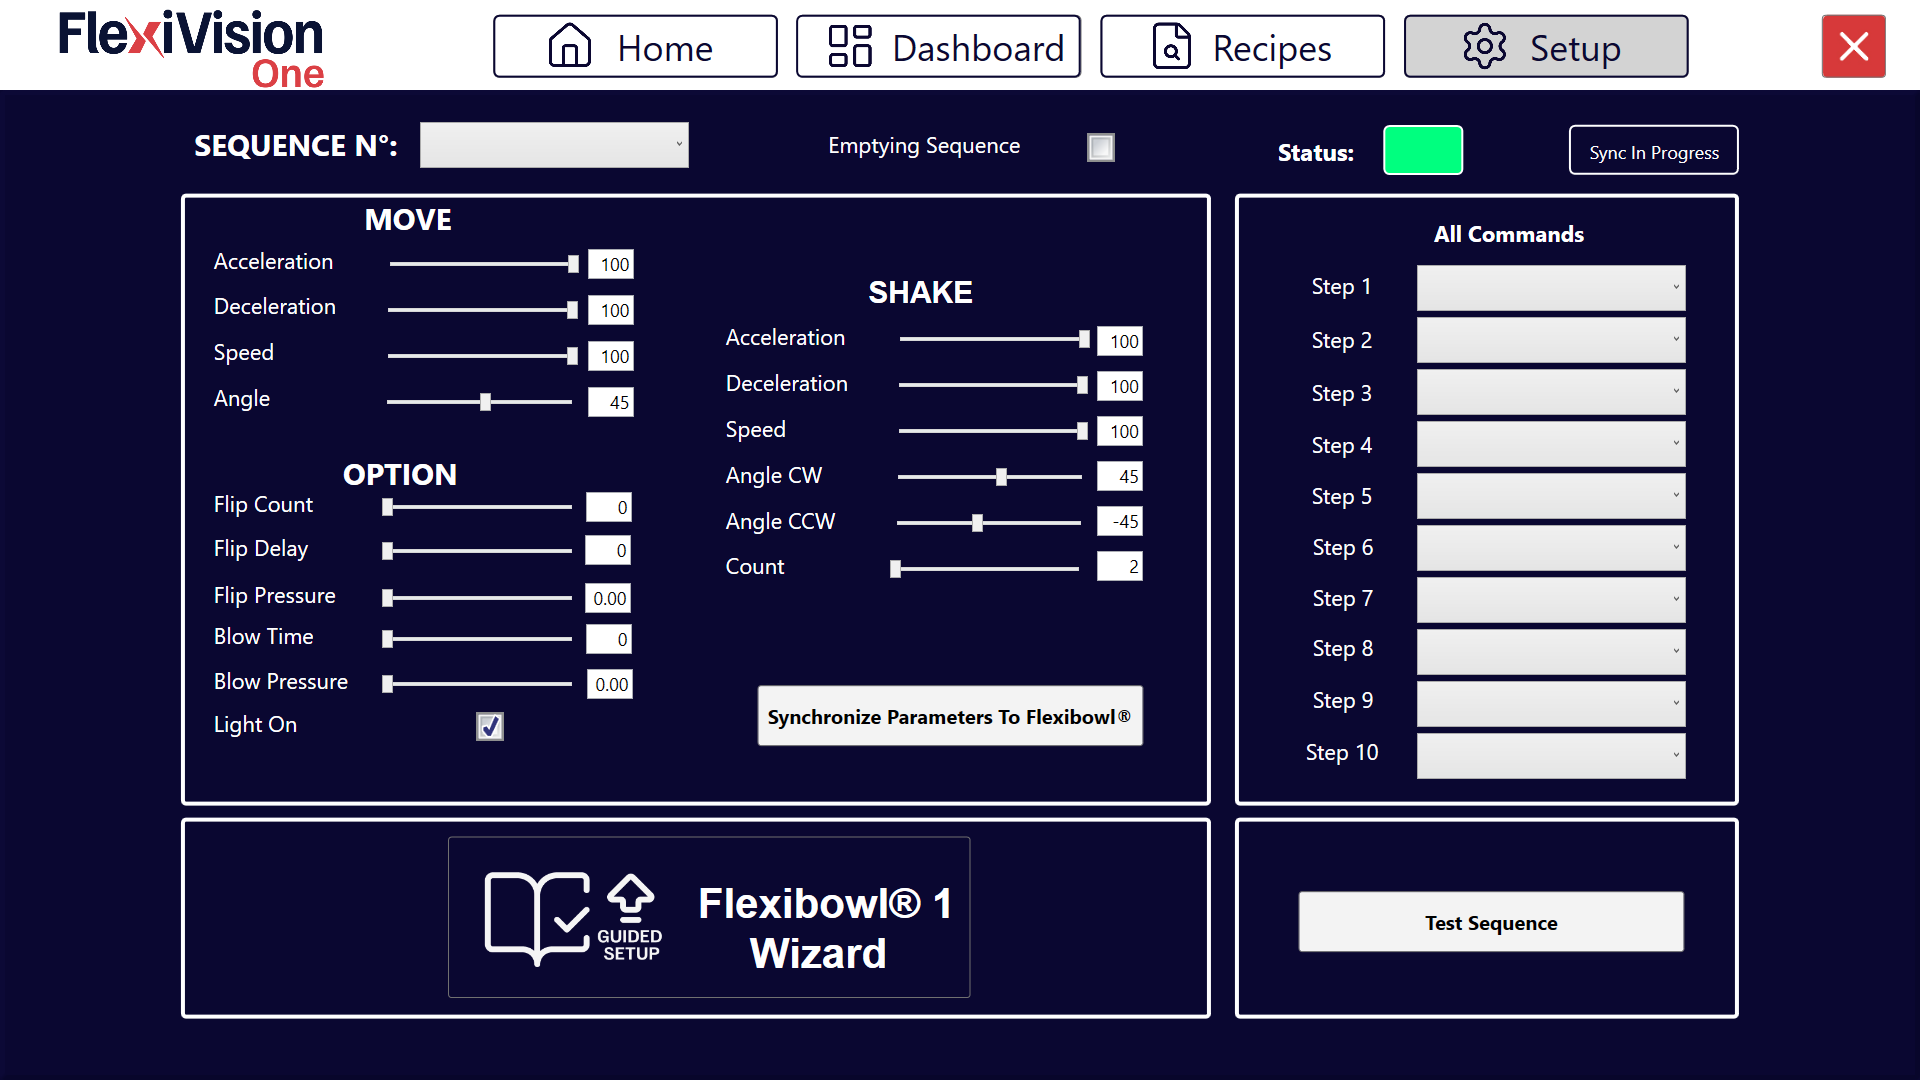
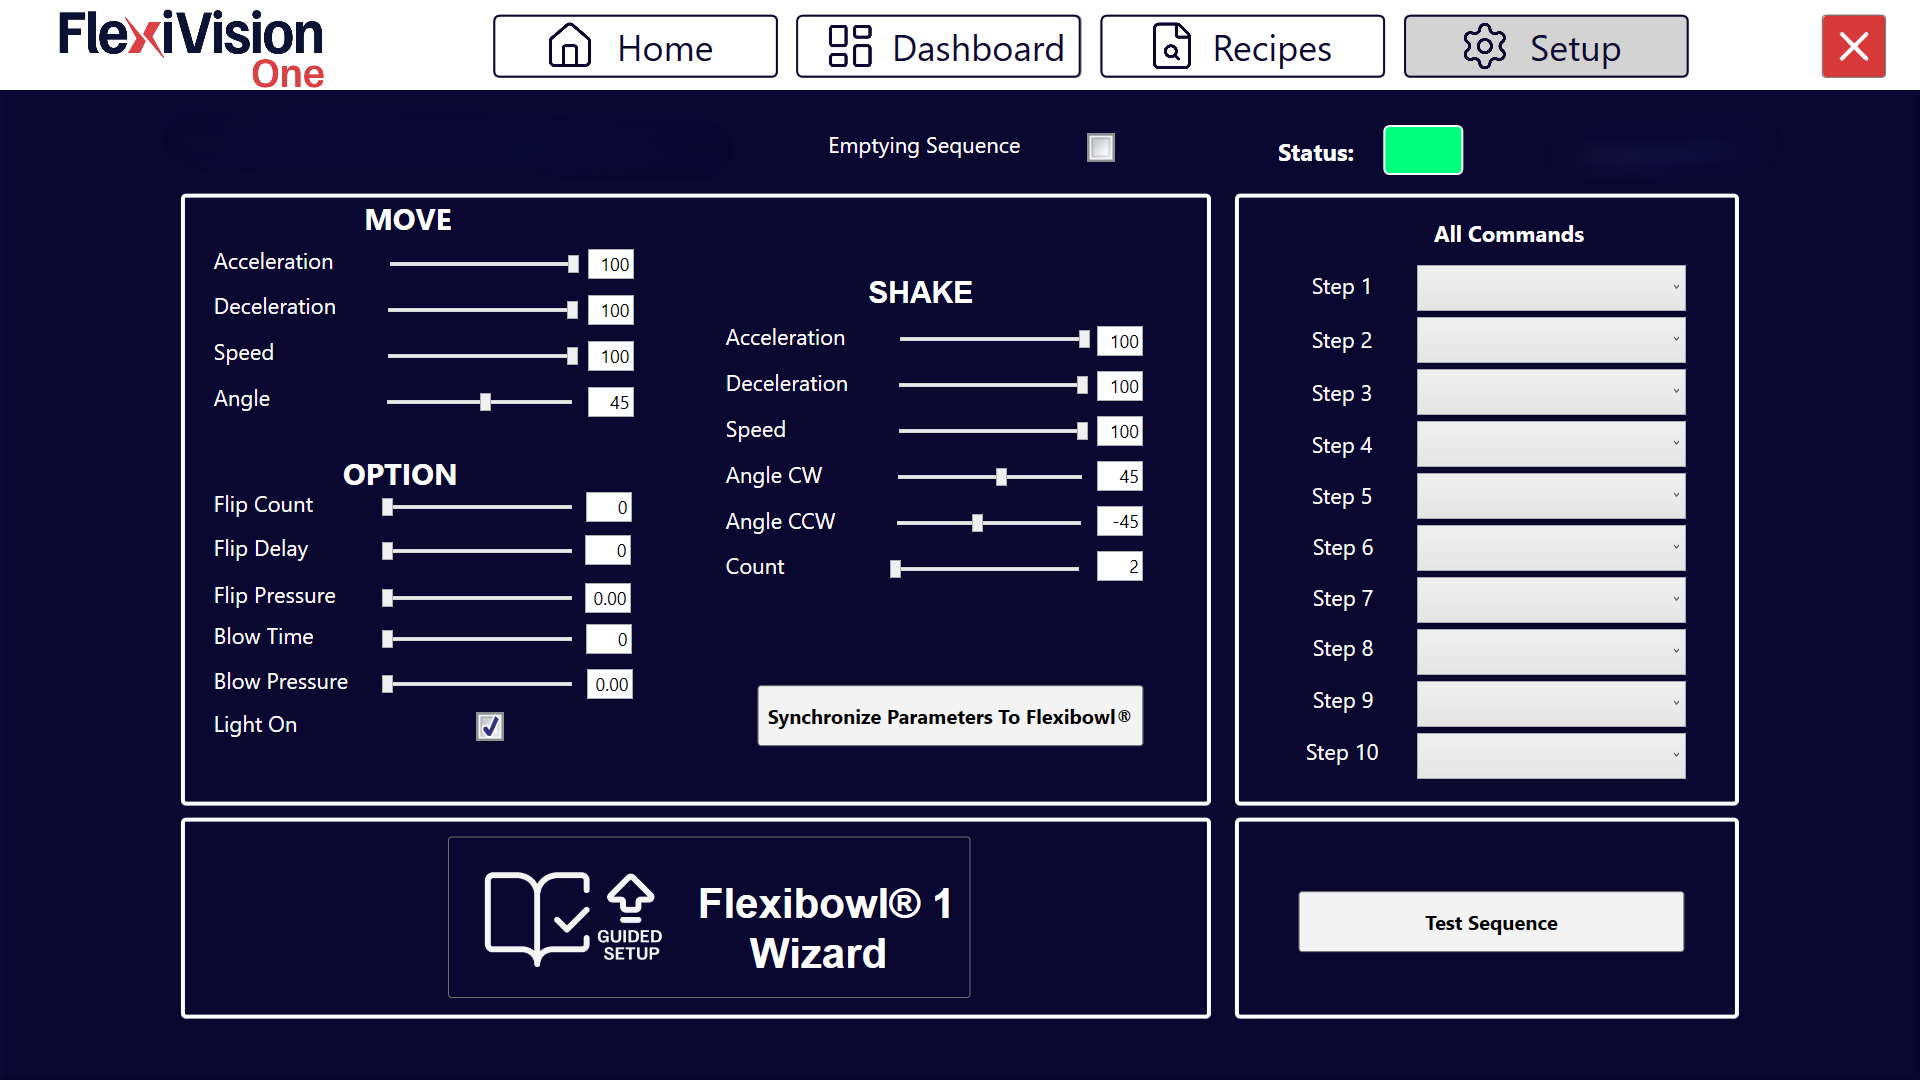
FB setup image

Changed region(s): [[0.0938, 0.0917, 0.375, 0.1528], [0.8125, 0.1222, 0.9062, 0.1528]]

diff --git a/build/V. 1.00/DE/FlexiVisionEasy_manual/QUICKSTART/SETUP/13a_FB_Setup.html b/build/V. 1.00/DE/FlexiVisionEasy_manual/QUICKSTART/SETUP/13a_FB_Setup.html
@@ -593,7 +593,7 @@
 </tr>
 <tr class="row-even"><td><p><strong>10</strong></p></td>
 <td><p>Es öffnet sich ein Fenster mit den konfigurierbaren Parametern des FlexiBowl®.
-<img alt="Pagina Parametri" src="../../../../../_shared/media/images/config_FB.png" /></p></td>
+<img alt="Pagina Parametri" src="../../../../../_shared/media/images/config_FB.PNG" /></p></td>
 </tr>
 </tbody>
 </table>
@@ -655,7 +655,7 @@
 <details class="sd-sphinx-override sd-dropdown sd-card sd-mb-3">
 <summary class="sd-summary-title sd-card-header">
 <span class="sd-summary-text">Seite Konfiguration FlexiBowl®</span><span class="sd-summary-state-marker sd-summary-chevron-right"><svg version="1.1" width="1.5em" height="1.5em" class="sd-octicon sd-octicon-chevron-right" viewBox="0 0 24 24" aria-hidden="true"><path d="M8.72 18.78a.75.75 0 0 1 0-1.06L14.44 12 8.72 6.28a.751.751 0 0 1 .018-1.042.751.751 0 0 1 1.042-.018l6.25 6.25a.75.75 0 0 1 0 1.06l-6.25 6.25a.75.75 0 0 1-1.06 0Z"></path></svg></span></summary><div class="sd-summary-content sd-card-body docutils">
-<p class="sd-card-text"><img alt="Pagina Parametri" src="../../../../../_shared/media/images/config_FB.png" /></p>
+<p class="sd-card-text"><img alt="Pagina Parametri" src="../../../../../_shared/media/images/config_FB.PNG" /></p>
 </div>
 </details></td>
 </tr>

diff --git a/build/V. 1.01/DE/FlexiVisionEasy_manual/QUICKSTART/SETUP/13a_FB_Setup.html b/build/V. 1.01/DE/FlexiVisionEasy_manual/QUICKSTART/SETUP/13a_FB_Setup.html
@@ -594,7 +594,7 @@
 </tr>
 <tr class="row-even"><td><p><strong>10</strong></p></td>
 <td><p>Es öffnet sich ein Fenster mit den konfigurierbaren Parametern des FlexiBowl®.
-<img alt="Pagina Parametri" src="../../../../../_shared/media/images/config_FB.png" /></p></td>
+<img alt="Pagina Parametri" src="../../../../../_shared/media/images/config_FB.PNG" /></p></td>
 </tr>
 </tbody>
 </table>
@@ -660,7 +660,7 @@
 <details class="sd-sphinx-override sd-dropdown sd-card sd-mb-3">
 <summary class="sd-summary-title sd-card-header">
 <span class="sd-summary-text">Seite Konfiguration FlexiBowl®</span><span class="sd-summary-state-marker sd-summary-chevron-right"><svg version="1.1" width="1.5em" height="1.5em" class="sd-octicon sd-octicon-chevron-right" viewBox="0 0 24 24" aria-hidden="true"><path d="M8.72 18.78a.75.75 0 0 1 0-1.06L14.44 12 8.72 6.28a.751.751 0 0 1 .018-1.042.751.751 0 0 1 1.042-.018l6.25 6.25a.75.75 0 0 1 0 1.06l-6.25 6.25a.75.75 0 0 1-1.06 0Z"></path></svg></span></summary><div class="sd-summary-content sd-card-body docutils">
-<p class="sd-card-text"><img alt="Pagina Parametri" src="../../../../../_shared/media/images/config_FB.png" /></p>
+<p class="sd-card-text"><img alt="Pagina Parametri" src="../../../../../_shared/media/images/config_FB.PNG" /></p>
 </div>
 </details></td>
 </tr>

diff --git a/build/V. 1.00/ES/FlexiVisionEasy_manual/QUICKSTART/SETUP/13a_FB_Setup.html b/build/V. 1.00/ES/FlexiVisionEasy_manual/QUICKSTART/SETUP/13a_FB_Setup.html
@@ -596,7 +596,7 @@
 </tr>
 <tr class="row-even"><td><p><strong>10</strong></p></td>
 <td><p>Se abre una ventana con los parámetros configurables del FlexiBowl®
-<img alt="Pagina Parametri" src="../../../../../_shared/media/images/config_FB.png" /></p></td>
+<img alt="Pagina Parametri" src="../../../../../_shared/media/images/config_FB.PNG" /></p></td>
 </tr>
 </tbody>
 </table>
@@ -658,7 +658,7 @@
 <details class="sd-sphinx-override sd-dropdown sd-card sd-mb-3">
 <summary class="sd-summary-title sd-card-header">
 <span class="sd-summary-text">Página de configuración de FlexiBowl®</span><span class="sd-summary-state-marker sd-summary-chevron-right"><svg version="1.1" width="1.5em" height="1.5em" class="sd-octicon sd-octicon-chevron-right" viewBox="0 0 24 24" aria-hidden="true"><path d="M8.72 18.78a.75.75 0 0 1 0-1.06L14.44 12 8.72 6.28a.751.751 0 0 1 .018-1.042.751.751 0 0 1 1.042-.018l6.25 6.25a.75.75 0 0 1 0 1.06l-6.25 6.25a.75.75 0 0 1-1.06 0Z"></path></svg></span></summary><div class="sd-summary-content sd-card-body docutils">
-<p class="sd-card-text"><img alt="Pagina Parametri" src="../../../../../_shared/media/images/config_FB.png" /></p>
+<p class="sd-card-text"><img alt="Pagina Parametri" src="../../../../../_shared/media/images/config_FB.PNG" /></p>
 </div>
 </details></td>
 </tr>

diff --git a/build/V. 1.01/ES/FlexiVisionEasy_manual/QUICKSTART/SETUP/13a_FB_Setup.html b/build/V. 1.01/ES/FlexiVisionEasy_manual/QUICKSTART/SETUP/13a_FB_Setup.html
@@ -597,7 +597,7 @@
 </tr>
 <tr class="row-even"><td><p><strong>10</strong></p></td>
 <td><p>Se abre una ventana con los parámetros configurables del FlexiBowl®
-<img alt="Pagina Parametri" src="../../../../../_shared/media/images/config_FB.png" /></p></td>
+<img alt="Pagina Parametri" src="../../../../../_shared/media/images/config_FB.PNG" /></p></td>
 </tr>
 </tbody>
 </table>
@@ -663,7 +663,7 @@
 <details class="sd-sphinx-override sd-dropdown sd-card sd-mb-3">
 <summary class="sd-summary-title sd-card-header">
 <span class="sd-summary-text">Página de configuración de FlexiBowl®</span><span class="sd-summary-state-marker sd-summary-chevron-right"><svg version="1.1" width="1.5em" height="1.5em" class="sd-octicon sd-octicon-chevron-right" viewBox="0 0 24 24" aria-hidden="true"><path d="M8.72 18.78a.75.75 0 0 1 0-1.06L14.44 12 8.72 6.28a.751.751 0 0 1 .018-1.042.751.751 0 0 1 1.042-.018l6.25 6.25a.75.75 0 0 1 0 1.06l-6.25 6.25a.75.75 0 0 1-1.06 0Z"></path></svg></span></summary><div class="sd-summary-content sd-card-body docutils">
-<p class="sd-card-text"><img alt="Pagina Parametri" src="../../../../../_shared/media/images/config_FB.png" /></p>
+<p class="sd-card-text"><img alt="Pagina Parametri" src="../../../../../_shared/media/images/config_FB.PNG" /></p>
 </div>
 </details></td>
 </tr>

diff --git a/build/V. 1.00/FR/FlexiVisionEasy_manual/QUICKSTART/SETUP/13a_FB_Setup.html b/build/V. 1.00/FR/FlexiVisionEasy_manual/QUICKSTART/SETUP/13a_FB_Setup.html
@@ -597,7 +597,7 @@
 </tr>
 <tr class="row-even"><td><p><strong>10</strong></p></td>
 <td><p>Une fenêtre s’ouvre avec les paramètres configurables du FlexiBowl®
-<img alt="Pagina Parametri" src="../../../../../_shared/media/images/config_FB.png" /></p></td>
+<img alt="Pagina Parametri" src="../../../../../_shared/media/images/config_FB.PNG" /></p></td>
 </tr>
 </tbody>
 </table>
@@ -659,7 +659,7 @@
 <details class="sd-sphinx-override sd-dropdown sd-card sd-mb-3">
 <summary class="sd-summary-title sd-card-header">
 <span class="sd-summary-text">Page de configuration du FlexiBowl®</span><span class="sd-summary-state-marker sd-summary-chevron-right"><svg version="1.1" width="1.5em" height="1.5em" class="sd-octicon sd-octicon-chevron-right" viewBox="0 0 24 24" aria-hidden="true"><path d="M8.72 18.78a.75.75 0 0 1 0-1.06L14.44 12 8.72 6.28a.751.751 0 0 1 .018-1.042.751.751 0 0 1 1.042-.018l6.25 6.25a.75.75 0 0 1 0 1.06l-6.25 6.25a.75.75 0 0 1-1.06 0Z"></path></svg></span></summary><div class="sd-summary-content sd-card-body docutils">
-<p class="sd-card-text"><img alt="Pagina Parametri" src="../../../../../_shared/media/images/config_FB.png" /></p>
+<p class="sd-card-text"><img alt="Pagina Parametri" src="../../../../../_shared/media/images/config_FB.PNG" /></p>
 </div>
 </details></td>
 </tr>

diff --git a/build/V. 1.01/FR/FlexiVisionEasy_manual/QUICKSTART/SETUP/13a_FB_Setup.html b/build/V. 1.01/FR/FlexiVisionEasy_manual/QUICKSTART/SETUP/13a_FB_Setup.html
@@ -598,7 +598,7 @@
 </tr>
 <tr class="row-even"><td><p><strong>10</strong></p></td>
 <td><p>Une fenêtre s’ouvre avec les paramètres configurables du FlexiBowl®
-<img alt="Pagina Parametri" src="../../../../../_shared/media/images/config_FB.png" /></p></td>
+<img alt="Pagina Parametri" src="../../../../../_shared/media/images/config_FB.PNG" /></p></td>
 </tr>
 </tbody>
 </table>
@@ -664,7 +664,7 @@
 <details class="sd-sphinx-override sd-dropdown sd-card sd-mb-3">
 <summary class="sd-summary-title sd-card-header">
 <span class="sd-summary-text">Page de configuration du FlexiBowl®</span><span class="sd-summary-state-marker sd-summary-chevron-right"><svg version="1.1" width="1.5em" height="1.5em" class="sd-octicon sd-octicon-chevron-right" viewBox="0 0 24 24" aria-hidden="true"><path d="M8.72 18.78a.75.75 0 0 1 0-1.06L14.44 12 8.72 6.28a.751.751 0 0 1 .018-1.042.751.751 0 0 1 1.042-.018l6.25 6.25a.75.75 0 0 1 0 1.06l-6.25 6.25a.75.75 0 0 1-1.06 0Z"></path></svg></span></summary><div class="sd-summary-content sd-card-body docutils">
-<p class="sd-card-text"><img alt="Pagina Parametri" src="../../../../../_shared/media/images/config_FB.png" /></p>
+<p class="sd-card-text"><img alt="Pagina Parametri" src="../../../../../_shared/media/images/config_FB.PNG" /></p>
 </div>
 </details></td>
 </tr>

diff --git a/build/V. 1.00/IT/FlexiVisionEasy_manual/QUICKSTART/SETUP/13a_FB_Setup.html b/build/V. 1.00/IT/FlexiVisionEasy_manual/QUICKSTART/SETUP/13a_FB_Setup.html
@@ -597,7 +597,7 @@
 </tr>
 <tr class="row-even"><td><p><strong>10</strong></p></td>
 <td><p>Si apre una finestra con i parametri configurabili del FlexiBowl®
-<img alt="Pagina Parametri" src="../../../../../_shared/media/images/config_FB.png" /></p></td>
+<img alt="Pagina Parametri" src="../../../../../_shared/media/images/config_FB.PNG" /></p></td>
 </tr>
 </tbody>
 </table>
@@ -659,7 +659,7 @@
 <details class="sd-sphinx-override sd-dropdown sd-card sd-mb-3">
 <summary class="sd-summary-title sd-card-header">
 <span class="sd-summary-text">Pagina Configurazione FlexiBowl®</span><span class="sd-summary-state-marker sd-summary-chevron-right"><svg version="1.1" width="1.5em" height="1.5em" class="sd-octicon sd-octicon-chevron-right" viewBox="0 0 24 24" aria-hidden="true"><path d="M8.72 18.78a.75.75 0 0 1 0-1.06L14.44 12 8.72 6.28a.751.751 0 0 1 .018-1.042.751.751 0 0 1 1.042-.018l6.25 6.25a.75.75 0 0 1 0 1.06l-6.25 6.25a.75.75 0 0 1-1.06 0Z"></path></svg></span></summary><div class="sd-summary-content sd-card-body docutils">
-<p class="sd-card-text"><img alt="Pagina Parametri" src="../../../../../_shared/media/images/config_FB.png" /></p>
+<p class="sd-card-text"><img alt="Pagina Parametri" src="../../../../../_shared/media/images/config_FB.PNG" /></p>
 </div>
 </details></td>
 </tr>

diff --git a/build/V. 1.01/IT/FlexiVisionEasy_manual/QUICKSTART/SETUP/13a_FB_Setup.html b/build/V. 1.01/IT/FlexiVisionEasy_manual/QUICKSTART/SETUP/13a_FB_Setup.html
@@ -598,7 +598,7 @@
 </tr>
 <tr class="row-even"><td><p><strong>10</strong></p></td>
 <td><p>Si apre una finestra con i parametri configurabili del FlexiBowl®
-<img alt="Pagina Parametri" src="../../../../../_shared/media/images/config_FB.png" /></p></td>
+<img alt="Pagina Parametri" src="../../../../../_shared/media/images/config_FB.PNG" /></p></td>
 </tr>
 </tbody>
 </table>
@@ -664,7 +664,7 @@
 <details class="sd-sphinx-override sd-dropdown sd-card sd-mb-3">
 <summary class="sd-summary-title sd-card-header">
 <span class="sd-summary-text">Pagina Configurazione FlexiBowl®</span><span class="sd-summary-state-marker sd-summary-chevron-right"><svg version="1.1" width="1.5em" height="1.5em" class="sd-octicon sd-octicon-chevron-right" viewBox="0 0 24 24" aria-hidden="true"><path d="M8.72 18.78a.75.75 0 0 1 0-1.06L14.44 12 8.72 6.28a.751.751 0 0 1 .018-1.042.751.751 0 0 1 1.042-.018l6.25 6.25a.75.75 0 0 1 0 1.06l-6.25 6.25a.75.75 0 0 1-1.06 0Z"></path></svg></span></summary><div class="sd-summary-content sd-card-body docutils">
-<p class="sd-card-text"><img alt="Pagina Parametri" src="../../../../../_shared/media/images/config_FB.png" /></p>
+<p class="sd-card-text"><img alt="Pagina Parametri" src="../../../../../_shared/media/images/config_FB.PNG" /></p>
 </div>
 </details></td>
 </tr>

diff --git a/build/V. 1.00/EN/FlexiVisionEasy_manual/QUICKSTART/SETUP/13a_FB_Setup.html b/build/V. 1.00/EN/FlexiVisionEasy_manual/QUICKSTART/SETUP/13a_FB_Setup.html
@@ -597,7 +597,7 @@
 </tr>
 <tr class="row-even"><td><p><strong>10</strong></p></td>
 <td><p>A window opens with the configurable parameters of the FlexiBowl®
-<img alt="Pagina Parametri" src="../../../../../_shared/media/images/config_FB.png" /></p></td>
+<img alt="Pagina Parametri" src="../../../../../_shared/media/images/config_FB.PNG" /></p></td>
 </tr>
 </tbody>
 </table>
@@ -659,7 +659,7 @@
 <details class="sd-sphinx-override sd-dropdown sd-card sd-mb-3">
 <summary class="sd-summary-title sd-card-header">
 <span class="sd-summary-text">FlexiBowl® Configuration Page</span><span class="sd-summary-state-marker sd-summary-chevron-right"><svg version="1.1" width="1.5em" height="1.5em" class="sd-octicon sd-octicon-chevron-right" viewBox="0 0 24 24" aria-hidden="true"><path d="M8.72 18.78a.75.75 0 0 1 0-1.06L14.44 12 8.72 6.28a.751.751 0 0 1 .018-1.042.751.751 0 0 1 1.042-.018l6.25 6.25a.75.75 0 0 1 0 1.06l-6.25 6.25a.75.75 0 0 1-1.06 0Z"></path></svg></span></summary><div class="sd-summary-content sd-card-body docutils">
-<p class="sd-card-text"><img alt="Pagina Parametri" src="../../../../../_shared/media/images/config_FB.png" /></p>
+<p class="sd-card-text"><img alt="Pagina Parametri" src="../../../../../_shared/media/images/config_FB.PNG" /></p>
 </div>
 </details></td>
 </tr>

diff --git a/build/V. 1.01/EN/FlexiVisionEasy_manual/QUICKSTART/SETUP/13a_FB_Setup.html b/build/V. 1.01/EN/FlexiVisionEasy_manual/QUICKSTART/SETUP/13a_FB_Setup.html
@@ -598,7 +598,7 @@
 </tr>
 <tr class="row-even"><td><p><strong>10</strong></p></td>
 <td><p>A window opens with the configurable parameters of the FlexiBowl®
-<img alt="Pagina Parametri" src="../../../../../_shared/media/images/config_FB.png" /></p></td>
+<img alt="Pagina Parametri" src="../../../../../_shared/media/images/config_FB.PNG" /></p></td>
 </tr>
 </tbody>
 </table>
@@ -664,7 +664,7 @@
 <details class="sd-sphinx-override sd-dropdown sd-card sd-mb-3">
 <summary class="sd-summary-title sd-card-header">
 <span class="sd-summary-text">FlexiBowl® Configuration Page</span><span class="sd-summary-state-marker sd-summary-chevron-right"><svg version="1.1" width="1.5em" height="1.5em" class="sd-octicon sd-octicon-chevron-right" viewBox="0 0 24 24" aria-hidden="true"><path d="M8.72 18.78a.75.75 0 0 1 0-1.06L14.44 12 8.72 6.28a.751.751 0 0 1 .018-1.042.751.751 0 0 1 1.042-.018l6.25 6.25a.75.75 0 0 1 0 1.06l-6.25 6.25a.75.75 0 0 1-1.06 0Z"></path></svg></span></summary><div class="sd-summary-content sd-card-body docutils">
-<p class="sd-card-text"><img alt="Pagina Parametri" src="../../../../../_shared/media/images/config_FB.png" /></p>
+<p class="sd-card-text"><img alt="Pagina Parametri" src="../../../../../_shared/media/images/config_FB.PNG" /></p>
 </div>
 </details></td>
 </tr>
